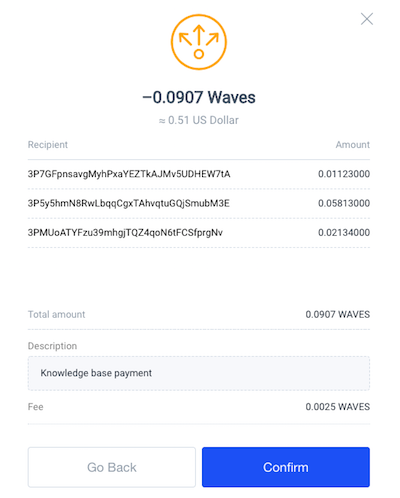
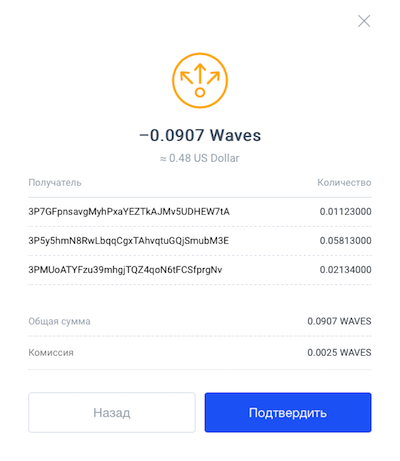
Updates

diff --git a/ru/waves-client/assets-management/mass-transfer.md b/ru/waves-client/assets-management/mass-transfer.md
@@ -1,52 +1,44 @@
-# How to distribute a Token using Mass Transfer
+# Как распределить токены с помощью Массовой рассылки.
 
-You can make mass transfers right from your Waves wallet.
-With this feature, you can distribute your Token, Waves or any other Waves based tokens on your balance directly to multiple (up-to 100) Waves addresses with several most natural actions.
+Вы можете совершить Массовую отправку токенов из своего Waves аккаунта. С помощью этой функции вы можете отправить Waves или любой другой Ассет из своего аккаунта на несколько (до 100) Waves адресов.
 
-Let's make distribution for Waves tokens, although this method also works for any other tokens of your balance. Before you start, please make sure that you have enough Waves for the transaction fee.
+Для этого откройте свой Waves кошелёк и во вкладке Портфель нажмите на кнопку Отправить в конце строки Ассета.
 
-Open up your wallet.
+![](/ru/_assets/mass_transfer_01.png)
 
-Go to Portfolio, click on the **Send** button (top left corner).
+В появившемся окне выбираете раздел **Массовая отправка** и заполните поля формы.
 
-![](/_assets/mass_transfer_01.png)
+![](/ru/_assets/mass_transfer_02.png)
 
-The following pop-up will appear.
-Select **Mass Payment** and choose a token for distribution.
-Then fill in the sending form.
+**Адрес, Сумма**: введите построчно Waves адреса получателей и через запятую сумму отправки;
+**Внимание**: вы можете отправить средства только на 100 адресов за один раз.
+Пожалуйста, соблюдайте следующий синтаксис ввода данных:  3P9KR33QyXwfTXv8kKtNGZYtgKk3RXSUk36,0.12345;
+**Описание**: добавьте краткое описание если необходимо;
+**Общая сумма**: в этом поле отобразится общая сумма вашей транзакции;
+**Комиссия**: в этом поле отобразиться комиссия за Массовую отправку токенов из расчета: 0,001 Waves + 0,0005 Waves x количество адресов.
 
-![](/_assets/mass_transfer_02.png)
+После заполнения полей формы нажмите на кнопку **Продолжить**.
 
-* **Recipients, Amounts**: Enter the recipient Waves addresses and number of tokens you want to distribute for each address.
-* **Note**:You can use up-to 100 addresses per one request.
-* Please use the following syntax: **Address,Amount** For example: **3P9KR33QyXwfTXv8kKtNGZYtgKk3RXSUk36**,**0.12345**
-* **Description**: Optional. You can write a message for the recipient in the Attachment field.
-* **Total Amount**: This field calculates the total number of sending tokens.
-* **Fee**: The transaction fee depended on the number of recipients and calculated using the following formula: **0.001 + 0.0005 * Number of recipients**.
+Для завершения процедуры Массовой отправки токенов ещё раз проверьте введённую информацию и нажмите на кнопку **Подтвердить**, если информация верна или на кнопку **Назад**, если информацию нужно исправить.
 
-After you have filled the form, click on the **Continue** button.
-The following pop-up will appear.
+![](/ru/_assets/mass_transfer_03.png)
 
-To complete the operation, double-check the entered data and if everything is good click on the **Confirm** or click on the **Go Back** to repeat the process.
+После этого транзакция будет проведена и информация о ней появится во вкладке **Транзакции**.
 
-![](/_assets/mass_transfer_03.png)
+![](/ru/_assets/mass_transfer_04.png)
 
-After all you will be able to find the mass payment transaction in your **Transactions**.
+Также вы можете импортировать файл с Waves адресами получателей и суммами.
 
-![](/_assets/mass_transfer_04.png)
+Для этого создайте текстовый файл со списком адресов получателей и суммами к получению в формате: Адрес,Сумма (например, **3P9KR33QyXwfTXv8kKtNGZYtgKk3RXSUk36,0.12345**).
 
-Also you can create payment file for the distribution.
-Just create a text file with the list of the recipient Waves addresses and number of tokens you want to distribute.
-Please use the following syntax: **Address,Amount** For example: **3P9KR33QyXwfTXv8kKtNGZYtgKk3RXSUk36,0.12345**
+Порядок действий по созданию такого файла рассмотрен на примере ниже:
 
-See example below.
+![](/ru/_assets/mass_transfer_05.png)
 
-![](/_assets/mass_transfer_05.png)
+![](/ru/_assets/mass_transfer_06.png)
 
-![](/_assets/mass_transfer_06.png)
+Затем сохраните файл в формате CSV и нажмите на **Импорт из CSV файла**.
 
-Save a file as CSV document and then open it by clicking on the **Import a CSV File**.
+![](/ru/_assets/mass_transfer_07.png)
 
-![](/_assets/mass_transfer_07.png)
-
-Follow the mass payment procedure described above.
+Для осуществления Массовой отправки следуйте процедуре описанной ранее.
